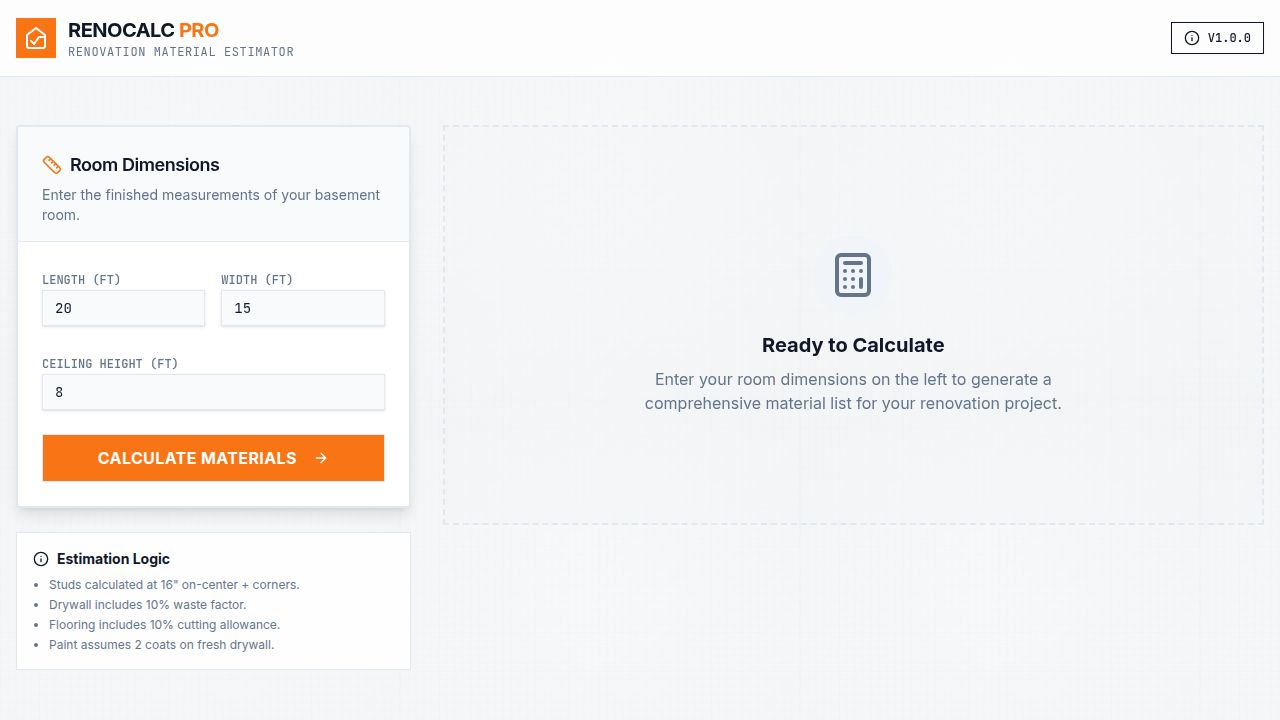
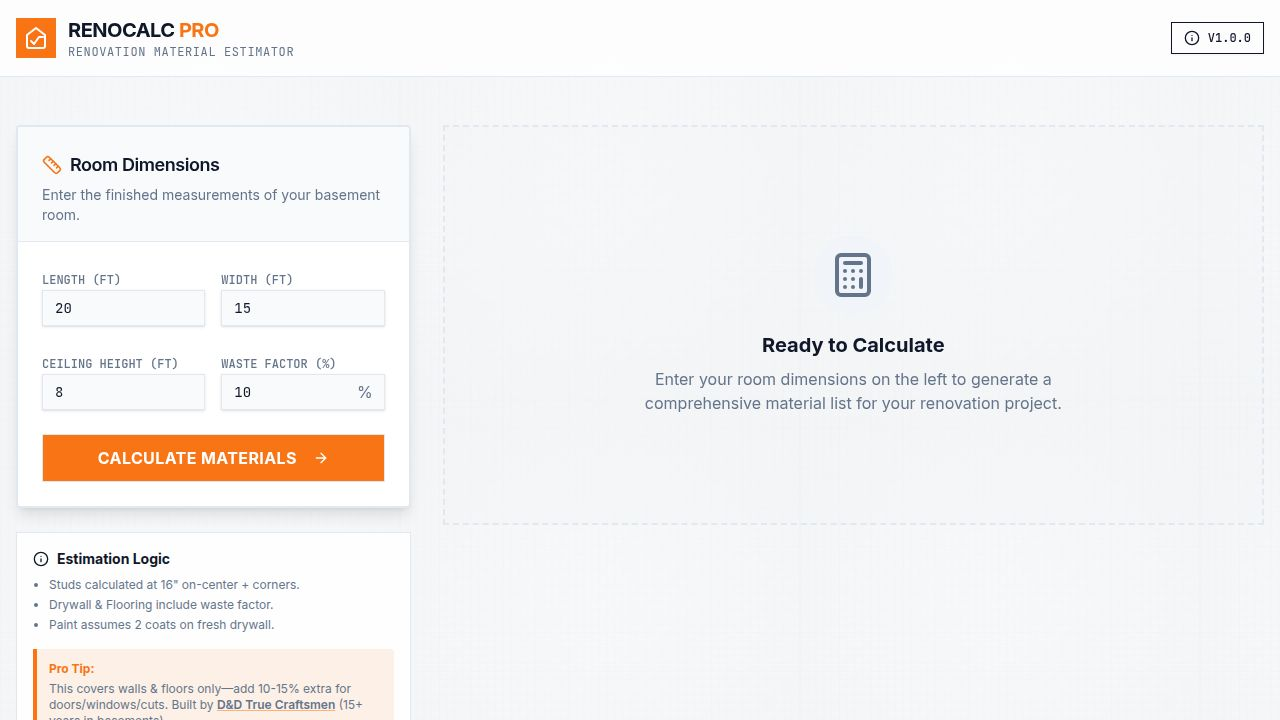
Add print and PDF export functionality for material estimates
Adds a 'Print / PDF' button to the interface, enabling users to generate a print-optimized version of their material estimates, which hides input forms and other non-essential elements.

Replit-Commit-Author: Agent
Replit-Commit-Session-Id: 7ecece92-fa18-4174-835e-386bd97fea10
Replit-Commit-Checkpoint-Type: full_checkpoint
Replit-Commit-Event-Id: d355099a-2890-43cf-8fb7-b4593d1694e3
Replit-Commit-Screenshot-Url: https://storage.googleapis.com/screenshot-production-us-central1/a5c9348d-222b-40e1-9e07-dc52a5579db1/7ecece92-fa18-4174-835e-386bd97fea10/MNMbYKa
Replit-Helium-Checkpoint-Created: true

diff --git a/client/src/pages/home.tsx b/client/src/pages/home.tsx
@@ -19,7 +19,8 @@ import {
   DollarSign,
   Download,
   Share2,
-  Loader2
+  Loader2,
+  Printer
 } from "lucide-react";
 import blueprintBg from "@assets/generated_images/subtle_architectural_grid_background.png";
 import { motion } from "framer-motion";
@@ -217,6 +218,10 @@ export default function Home() {
     return total;
   }, [results, prices, enabledItems]);
 
+  const handlePrint = () => {
+    window.print();
+  };
+
   const shareResults = async () => {
     if (!results) return;
     
@@ -283,7 +288,7 @@ export default function Home() {
       />
       
       {/* Header */}
-      <header className="relative z-10 border-b bg-card/80 backdrop-blur-sm sticky top-0">
+      <header className="relative z-10 border-b bg-card/80 backdrop-blur-sm sticky top-0 no-print">
         <div className="container mx-auto px-4 py-4 flex items-center justify-between">
           <div className="flex items-center gap-3">
             <div className="bg-primary p-2">
@@ -305,7 +310,7 @@ export default function Home() {
         <div className="grid lg:grid-cols-12 gap-8 items-start">
           
           {/* Input Section */}
-          <div className="lg:col-span-4 space-y-6">
+          <div className="lg:col-span-4 space-y-6 no-print">
             <motion.div
               initial={{ opacity: 0, y: 20 }}
               animate={{ opacity: 1, y: 0 }}
@@ -456,7 +461,7 @@ export default function Home() {
 
                 <div className="flex items-center justify-between mb-4">
                   <h2 className="text-2xl font-bold tracking-tight">Material Requirements & Cost</h2>
-                  <div className="flex items-center gap-2 text-sm text-muted-foreground bg-muted/50 px-3 py-1 rounded-full">
+                  <div className="flex items-center gap-2 text-sm text-muted-foreground bg-muted/50 px-3 py-1 rounded-full no-print">
                     <DollarSign className="h-4 w-4" />
                     <span>Enter unit prices to calculate total</span>
                   </div>
@@ -557,14 +562,22 @@ export default function Home() {
                   
                   <Separator className="my-4 bg-primary/10" />
                   
-                  <div className="flex flex-col sm:flex-row gap-3">
+                  <div className="flex flex-col sm:flex-row gap-3 no-print">
                     <Button 
                       onClick={downloadCSV} 
                       className="flex-1 flex items-center gap-2" 
                       variant="outline"
                     >
                       <Download className="h-4 w-4" />
-                      Download CSV Estimate
+                      Download CSV
+                    </Button>
+                    <Button 
+                      onClick={handlePrint} 
+                      className="flex-1 flex items-center gap-2" 
+                      variant="outline"
+                    >
+                      <Printer className="h-4 w-4" />
+                      Print / PDF
                     </Button>
                     <Button 
                       onClick={shareResults} 
@@ -593,7 +606,7 @@ export default function Home() {
         </div>
       </main>
       
-      <footer className="relative z-10 border-t bg-card/50 py-6 text-center text-sm text-muted-foreground">
+      <footer className="relative z-10 border-t bg-card/50 py-6 text-center text-sm text-muted-foreground no-print">
         <p>Built by pros for pros. Questions? Hit us up at <a href="https://www.ddtruecraftsmen.com" target="_blank" rel="noopener noreferrer" className="font-semibold text-foreground hover:underline hover:text-primary transition-colors">D&D True Craftsmen</a>.</p>
       </footer>
     </div>

diff --git a/client/src/index.css b/client/src/index.css
@@ -118,6 +118,27 @@
   }
 }
 
+@media print {
+  body {
+    background: white;
+    color: black;
+  }
+  .no-print {
+    display: none !important;
+  }
+  .print-only {
+    display: block !important;
+  }
+  .bg-card {
+    background: transparent !important;
+    border: 1px solid #ddd !important;
+  }
+  /* Hide background patterns */
+  div[style*="background-image"] {
+    background-image: none !important;
+  }
+}
+
 /* Custom Utilities for Blueprint effect */
 .bg-blueprint {
   background-image: 
